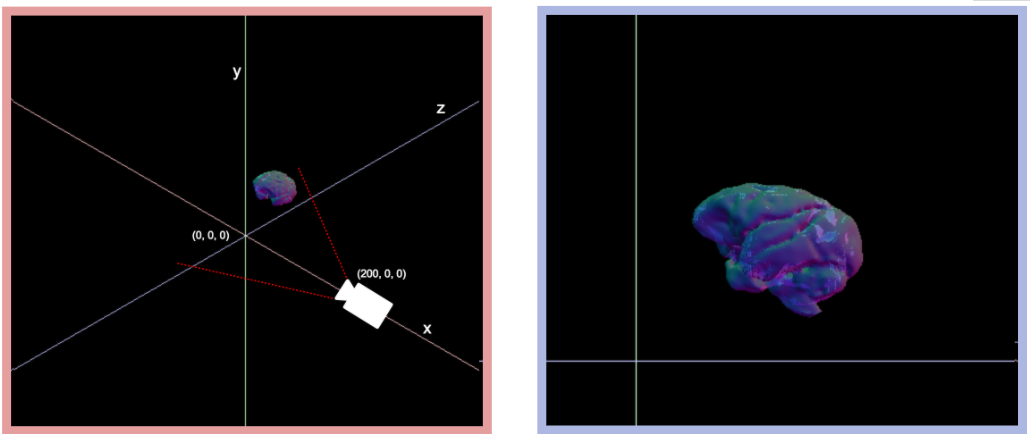
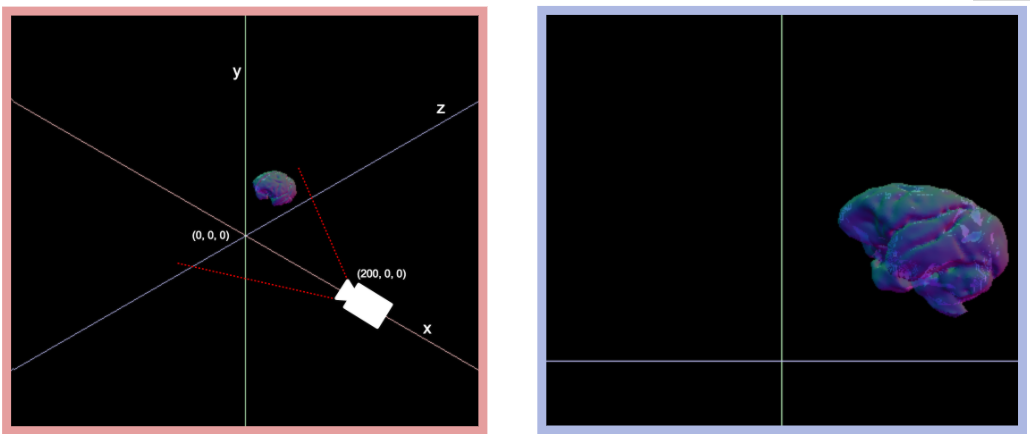
camera lesson revision

Changed region(s): [[0.6524, 0.4194, 0.9942, 0.7488], [0.466, 0.03, 0.4971, 1.0]]

diff --git a/_course_3_threejs/4-camera.md b/_course_3_threejs/4-camera.md
@@ -26,22 +26,16 @@ This [image](https://www3.ntu.edu.sg/home/ehchua/programming/opengl/CG_BasicsThe
 We'll start with these parameters:
 
 ```js
-var camera = new THREE.PerspectiveCamera( 20, window.innerWidth / window.innerHeight, 0.1, 100000 );
+var camera = new THREE.PerspectiveCamera( 80, window.innerWidth / window.innerHeight, 0.1, 100000 );
 ```
 
-> ### Challenge: Play with the camers!
+> ### Challenge: Play with the camera!
 >
 > Play with the parameters of the camera to see if you can get an intuition for how they work. Can you set them in a way that you cut through the brain? Can you make a fish eye lens?
 
 One thing that you might have noticed while playing with the camera is that you always look at the brain from the same direction. All we know how to change are the distance and the aspect ratio. Let's have a look at where our camera actually is by printing its position in the console:
 ```js
 console.log(camera.position);
-```
-
-Now we can set the camera position using `camera.position.set()` and giving it an x, y, and z coordinate:
-
-```js
-camera.position.set( 200, 0, 0 );
 ```
 
 One important thing I want to have if I'm in a 3D space is a reference system. ThreeJS doesn't come with a simple command to create axes, so we wrote a little script to help us with this. It should be in your `code` folder. To use it, we'll have to load it in the `index.html`. It needs to be included before the `main.js`, so we have access to its functionality in our main file.   
@@ -57,7 +51,20 @@ To add the axes to the scene, call `addAxes(scene)` any time after creating the 
 ```js
 addAxes(scene);
 ```
-Three coloured axes should appear on your screen: x (red) and z (blue) being the plane we'd stand on and y (green) pointing up. Once we move the camera, we can decide where it points to, using the `lookAt` command. This command is used with a ThreeJS vector, which is just another way of saying "this point in space". We'll come across more of these vectors later. We can either initialise it as a variable like we're used to, or we can create a new one on the fly (which is what we'll do here, because we won't need it a second time). For example, if we want to look at the origin of the coordinate system, we use:
+Three coloured axes should appear on your screen: x (red) and z (blue) being the plane we'd stand on and y (green) pointing up. 
+
+
+
+
+Now we can set the camera position using `camera.position.set()` and giving it an x, y, and z coordinate:
+
+```js
+camera.position.set( 200, 0, 0 );
+```
+
+Once we move the camera, we can decide where it points to, using the `lookAt` command. This command is used with a ThreeJS vector, which is just another way of saying "this point in space". We'll come across more of these vectors later. We can either initialise it as a variable like we're used to, or we can create a new one on the fly (which is what we'll do here, because we won't need it a second time). 
+
+For example, if we want to look at the origin of the coordinate system, we use:
 ```js
 camera.lookAt( new THREE.Vector3( 0, 0, 0 ) );
 ```
@@ -76,7 +83,7 @@ camera.lookAt( new THREE.Vector3( 0, 100, 0 ) );
 > ### Challenge: Look down on the brain
 > Using `position` and `lookAt`, try recreating the following: 
 
-<img src="../images/cameraSceneChallenge.png" alt="setup" style="width:50%; margin: 0 auto;" />
+<img src="../images/cameraSceneChallenge.png" alt="setup" style="width:50%; margin: 0 25%;" />
 
 Sooo... we could play with this for ever, create buttons to rotate, focus, zoom, and pan. But instead, we'll rely on a pre-built library that has all these controls conveniently packaged up already.
 
